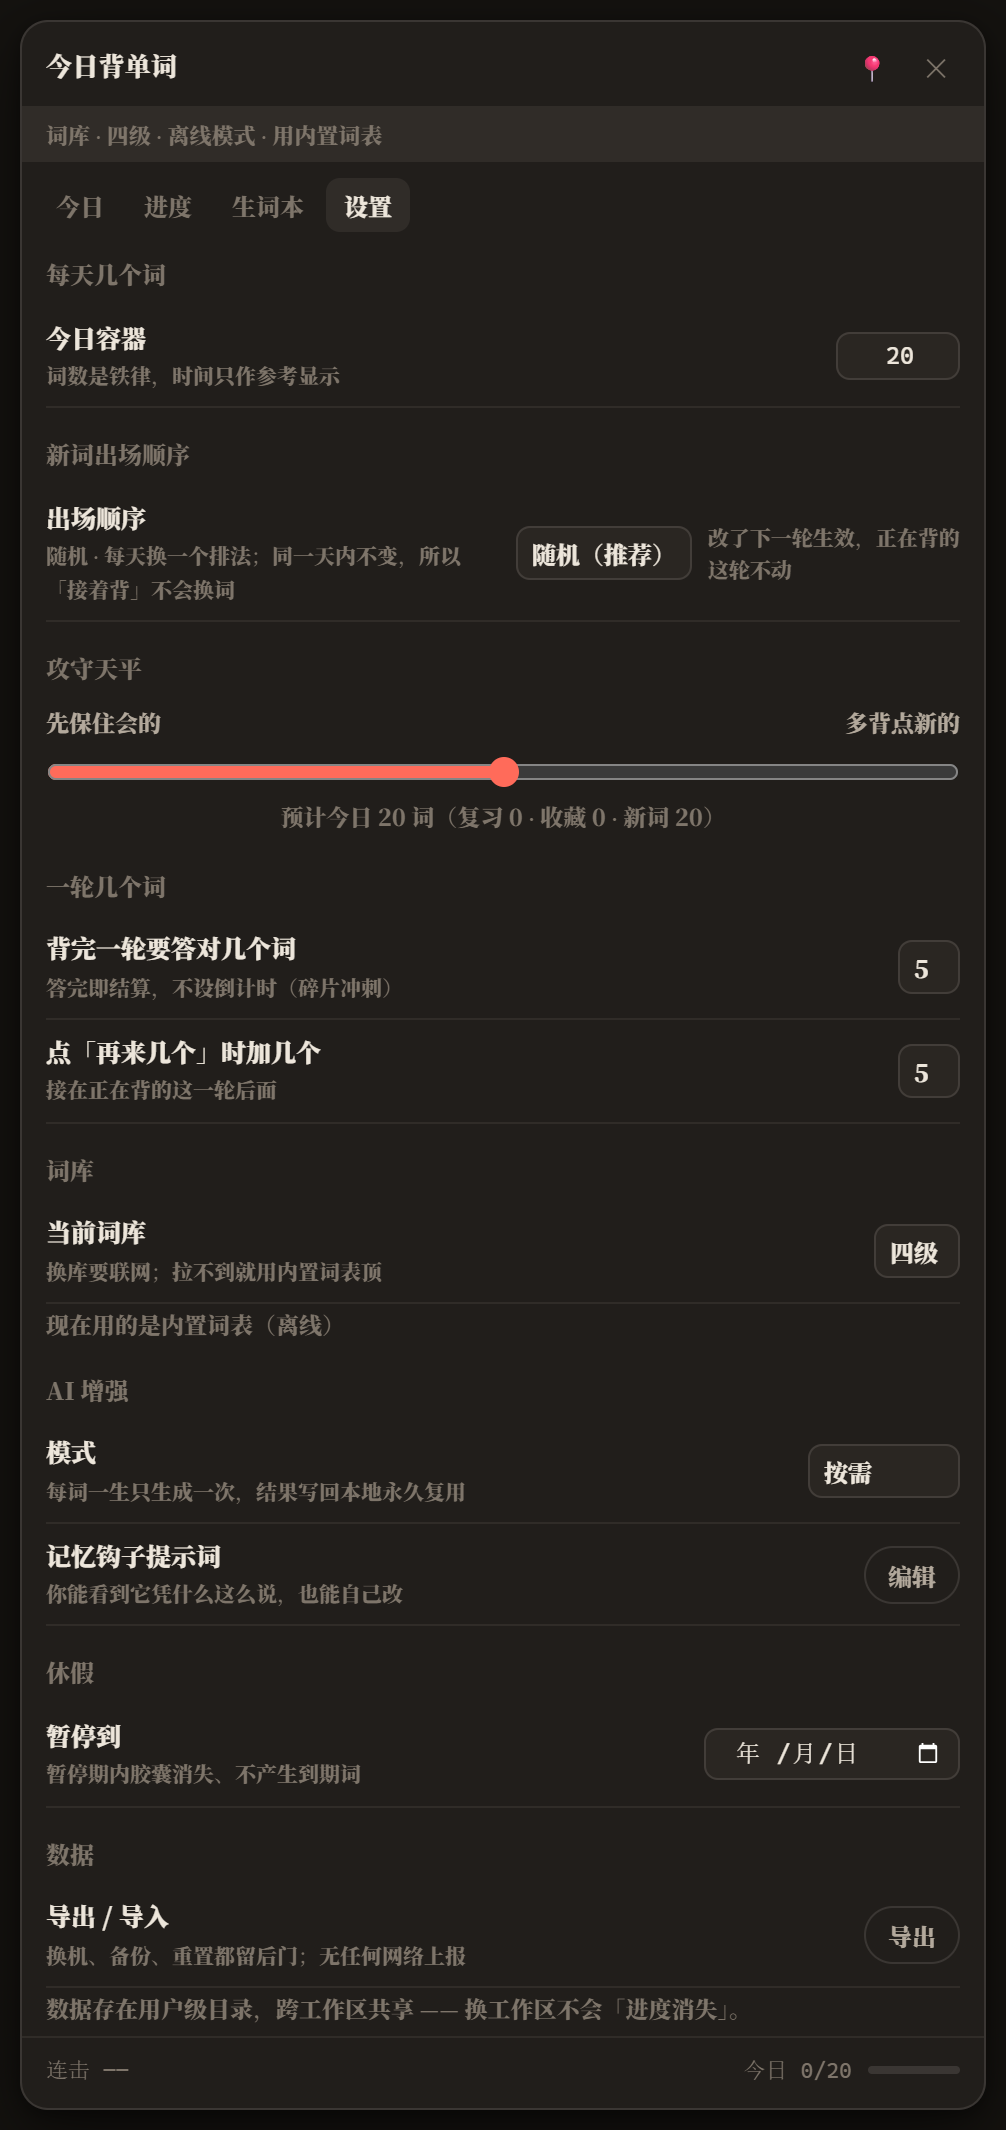
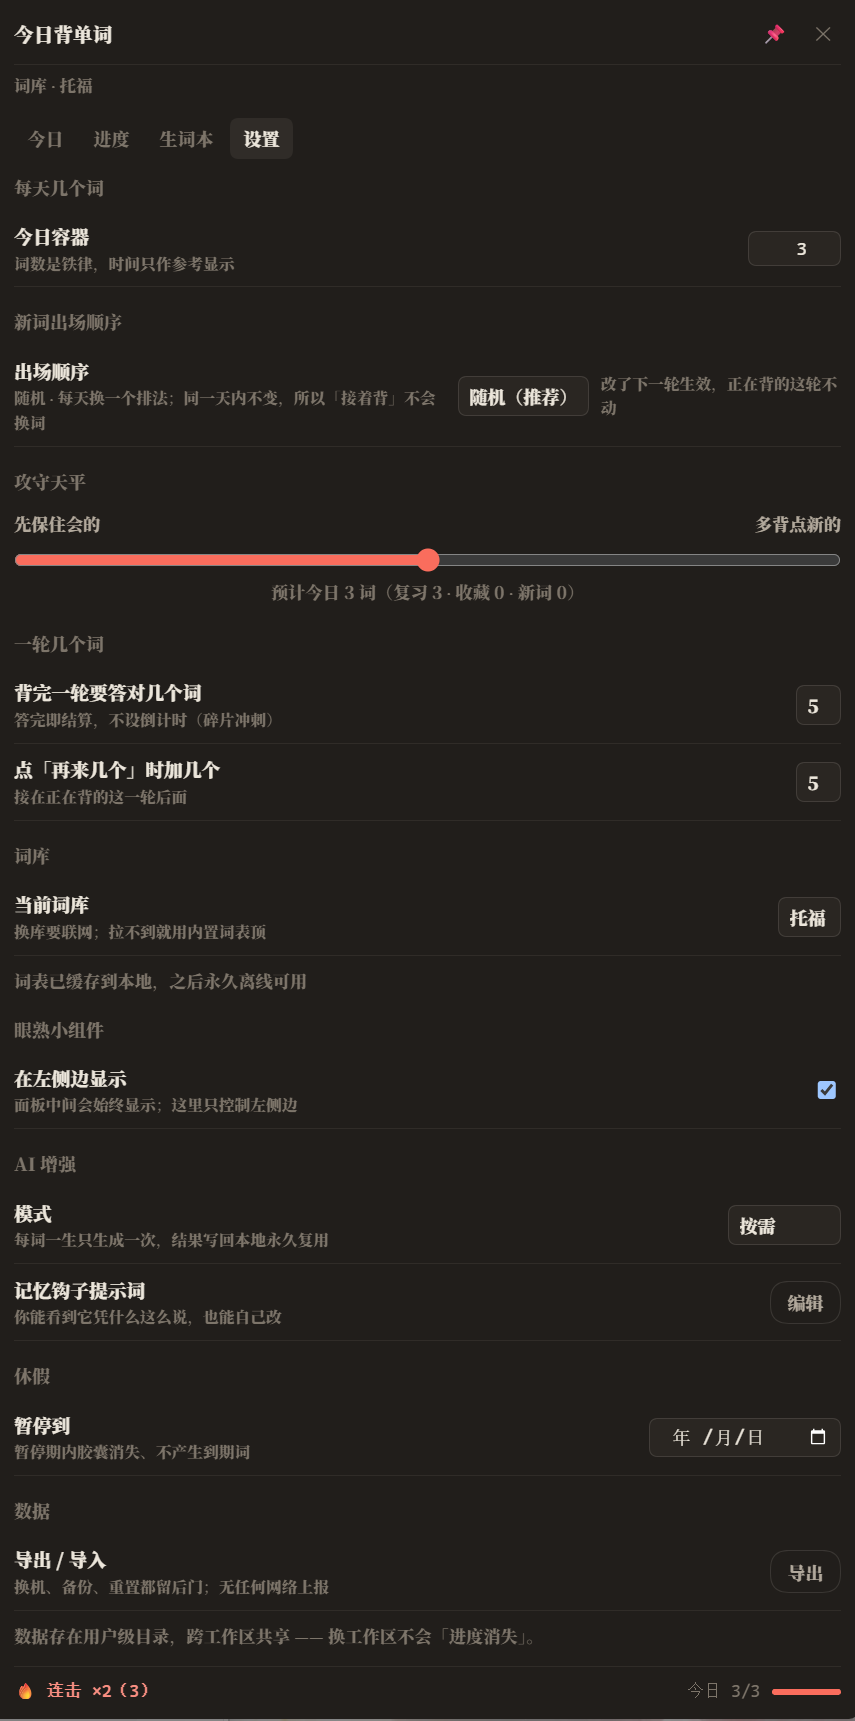
docs: 换真界面截图（工作区/设置/一轮走完），README 对齐 0.3.3
- assets/screenshot-1-capsule.png：换成整个工作区截图（左侧栏眼熟小组件 + 对话），账号行已打码
- assets/screenshot-6-settings.png：换成当前设置页
- assets/screenshot-7-round.png：新增「一轮走完」页面截图
- screenshots.json：市场预览图加第三张
- README：版本 0.3.2 → 0.3.3、体积 5,677,324 B、断言口径写清 12 套件 600 / 13 套件 605、市场收录状态改为已合并
- tools/make-promo.mjs：CDP 端口支持 PROMO_CDP_PORT 环境变量（Windows 保留端口段会让 9234 bind 失败）
- 补上 docs/releases/v0.3.3.md

diff --git a/docs/releases/v0.3.3.md b/docs/releases/v0.3.3.md
@@ -1,0 +1,36 @@
+0.3.3：面板不再被一个巨大黑圆盖住
+
+> 纯界面修复，学习记录、生词本、连击、设置一个都没动，升级即用。
+
+### 一句话说清这版干了什么
+
+完成一轮停在「这一轮走完了」时，面板中下部会突然出现一整块纯黑的圆（右侧还连着一段弧），
+底部统计文字被挤到最左边，横向滚动条也冒出来 —— 看着像插件崩了。
+其实没崩：是**样式表没生效**时，图形退回了 SVG 的默认值。这版把这个失效模式修掉了。
+
+### 根因
+
+进度环和记忆曲线这两个 SVG 图形的尺寸和填充，全都只写在 CSS 里：
+
+- 外层 SVG 元素没写宽度和高度 → 撑满父容器；
+- 圆元素没写 `fill="none"` → 用 SVG 默认的**黑色填充**。
+
+两者一起缺，68px 的进度环就放大成盖住半块面板的黑圆。
+
+样式表会不会在不由面板决定 —— 宿主热重载、面板被搬进 ShadowRoot、样式标签只剩空壳都可能发生；
+旧代码只判断文档里有没有那个样式标签，有就直接返回，于是面板一路裸奔。
+
+### 修法
+
+- 进度环和记忆曲线的 SVG **自带**尺寸与无填充属性。属性比 CSS 弱，样式正常时仍由 CSS 决定，
+  样式不在时最差只是留个空位 —— 不会再出黑块。
+- 样式注入改成按面板**实际所在的那棵树**注入（支持 ShadowRoot），认出空壳样式标签后移除重注入。
+- 每次渲染都确认一次样式，丢了能自愈。
+
+复现方式固化进测试 `test/bundle-audit.test.mjs` 第 10/11 节：关掉插件样式表后截图对照。
+
+### 一句提醒
+
+客户端产物在 DSH 启动时加载，**升级后要完全退出 DSH 再打开**才能看到修复。
+
+13 个测试套件全绿，新增 9 条断言专门守这次事故。
